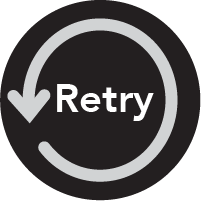
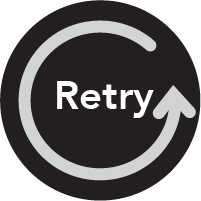
Apr 23
scoreboard, retry added

diff --git a/index.html b/index.html
@@ -55,7 +55,6 @@
       <!-- <div class="fifthVideo" onclick="playPauseMedia5()"><div class="overlap"><p>LIVESTOCK<br><br>Choosing this resource will grant you the<br> ability to farm livestock.</p></div><video onclick=""><source src="img/livestock.mp4" type="video/mp4" onclick=""></video></div>  -->
       <!-- <div class="sixthVideo" onclick="playPauseMedia6()"><div class="overlap"><p>TOILET<br><br>Choosing this resource will grant you<br> access to the plumbing system</p></div><video onclick=""><source src="img/toilet.mp4" type="video/mp4" onclick=""></video></div>  -->
     
-
   <!-- Toggle video icons (working) Kyle -->
     <div class="icons" id="icons">
       <div><img src="img/drink.png" alt="" class="drink" id="drink" onmouseover="this.src='img/drinkH.png'" onmouseout="this.src='img/drink.png'" onclick="playPauseMedia1()"></div>
@@ -66,10 +65,13 @@
       <div><img src="img/flush.png" alt="" class="flush" id="" onmouseover="this.src='img/flushH.png'" onmouseout="this.src='img/flush.png'" onclick="playPauseMedia6()"></div>
     </div>
     
-    <!-- </div class="retry" id="retry" onhover="" onclick="">    
-      <div><img src="img/retry.png" alt=""></div>
-    </div> -->
-
+  <!-- Displays score & Retry icon (work in progress) Kyle -->
+    <div class="playHUD" id="playHUD">
+      <h2 id="scoreBoard"></h2>
+      <div class="retry"><img src="img/retry.png" onclick="window.location.reload()" onmouseover="this.src='img/retryH.png'" onmouseout="this.src='img/retry.png'" alt=""></div>
+    </div>  
+  
+    
   <!-- Javascript that determines the max number of clicks based on score (working) Kyle -->
     <script>
 
@@ -83,6 +85,7 @@
         
         
         var count=0;
+        var totalCreditRemaining=0;
         
         //plays first video if the user has enough credits
         
@@ -94,6 +97,7 @@
               video1[0].play();
               // alert("video has been played");
               count++; 
+              drawScoreBoard();
             } else {
               // videos.pause;
               // alert("video won't play");
@@ -111,6 +115,7 @@
               video2[0].play();
               // alert("video has been played");
               count++; 
+              drawScoreBoard();
             } else {
               // videos.pause;
               // alert("video won't play");
@@ -129,6 +134,7 @@
             video3[0].play();
             // alert("video has been played");
             count++; 
+            drawScoreBoard();
           } else {
             // videos.pause;
             // alert("video won't play");
@@ -148,6 +154,7 @@
             video4[0].play();
             // alert("video has been played");
             count++; 
+            drawScoreBoard();
           } else {
             // videos.pause;
             // alert("video won't play");
@@ -165,7 +172,8 @@
             // alert(video1[0]);
             video5[0].play();
             // alert("video has been played");
-            count++; 
+            count++;
+            drawScoreBoard(); 
           } else {
             // videos.pause;
             // alert("video won't play");
@@ -184,6 +192,7 @@
             video6[0].play();
             // alert("video has been played");
             count++; 
+            drawScoreBoard();
           } else {
             // videos.pause;
             // alert("video won't play");
@@ -191,6 +200,15 @@
         
         
         }
+        
+        function drawScoreBoard(){
+          totalCreditRemaining = score - count;
+          // scoreBoard.innerHTML = "***Total Score: "+ score + " Water units availible: " + totalCreditRemaining + "***";
+          scoreBoard.innerHTML = " Water credits left: " + totalCreditRemaining + "   ";
+   
+        }
+        
+          
         
     </script>
     

diff --git a/css/main.css b/css/main.css
@@ -3,13 +3,11 @@ body, html {
   height: 100%;
   font-family: 'Roboto', sans-serif;
   font-size: 1em;
-  text-transform: uppercase;
+  /* text-transform: uppercase; */
+  overflow: hidden;
 }
 
 .wrapper {
-  width: auto;
-  margin: 1 auto;
-  height: 100vh;
 }
 
 .startButton {
@@ -24,7 +22,7 @@ body, html {
   border-radius: 5em;
   border-width: 0.25em;
   border-color: white;
-  text-transform: uppercase;
+  /* text-transform: uppercase; */
 }
 
 .startButton:hover {
@@ -45,7 +43,7 @@ body, html {
   border-radius: 5em;
   border-width: 0.25em;
   border-color: white;
-  text-transform: uppercase; 
+  /* text-transform: uppercase;  */
 }
 
 .nextButton:hover {
@@ -181,11 +179,67 @@ padding: 0.75em;
 }
 .icons img {
   max-width: 50%;
+  cursor: pointer;
+
 }
-.retry img{
-  display: inline;
-  position: fixed;
+
+.playHUD {
+  font-family: helvetica;
+  /* font-weight: 100; */
+  grid-column-start: 2;
+  grid-row: 1;
+  margin: -4em 24em;
+  font-size: 20px;
+  /* text-transform: uppercase; */
+  /* display: grid; */
+  grid-template-columns: 1fr 1fr 1fr;
+  /* grid-template-rows: 1fr 1fr;  */
+  color: #3FA9F5;
   z-index: 1;
+}
+
+.playHUD h2 {
+  display: block;
+  color: white;
+  font-size: 1em;
+  font-weight: 700;
+  text-align: center;
+  width: 12em;
+  margin: 2em auto;
+  padding: 0.5em 0em 0.5em 0em;
+  background-color: #3FA9F5;
+  border-radius: 5em;
+  border-width: 0.25em;
+  border-color: white;
+  /* grid-template-columns: 1fr 1fr 1fr; */
+  grid-column-start: 2;
+  grid-row: 1;
+  z-index: 1;
+  
+}
+
+.playHUD img {
+  cursor: pointer;
+}
+
+.retry {
+  /* width: 5em; */
+  /* top: 36vh; */
+  /* display: grid; */
+  /* grid-template-columns: 1fr 1fr 1fr; */
+  /* position: absolute; */
+  z-index: 2;
+
+}
+
+.retry img{
+  max-width: 3.0em;
+  display: inline;
+  position: absolute;
+  z-index: 1;
+  cursor: pointer;
+  top: 2vh;
+  left: 62vw
 }
 @media screen and (min-width: 320px) {
   .icons {
@@ -259,8 +313,8 @@ padding: 0.75em;
 
 
 .icons img {
-  width: 10em;
-  margin: 3em;
+  width: 6em;
+  margin: 19em 2em;
   position: absolute;
 }
 
@@ -278,29 +332,6 @@ padding: 0.75em;
 } */
 
 
-.icons .wash {
-  /* grid-column-start: 1; */
-  /* grid-row: 1; */
-  /* background-image: url(../img/drink.png); */
-  /* background-size: contain; */
-  /* background-repeat: no-repeat; */
-  /* background-position: center; */
-  /* grid-column-start: 1; */
-  /* grid-row: 1; */
-  /* left: 1em; */
-  /* z-index: 1; */
-}
-
-/* .sequence {
-  display: grid;
-  grid-template-columns: 33.3333% 33.3333% 33.3333%;
-  position: fixed;
-  width: 100%;
-  height: 100%;
-  top: 0;
-  bottom: 0;
-} */
-
 .sequence > div {
   position: relative;
   display: grid;
@@ -311,23 +342,6 @@ padding: 0.75em;
 
 .sequence > div:hover .overlap {
   opacity: 100;
-}
-
-.firstVideo {
-  background-image: url(../img/drink.png);
-  background-size: contain;
-  background-repeat: no-repeat;
-  background-position: center;
-  grid-column-start: 1;
-  grid-row: 1;
-  left: 1em;
-  /* position: absolute; */
- /* border-style: solid;
-  border-width: 1em 0 1em 2em;*/
-  /*border-color: transparent transparent transparent #000;*/
-  /* opacity: 1; */
-  /* cursor: pointer; */
-  z-index: 1;
 }
 
 .overlap {

diff --git a/js/main.js b/js/main.js
@@ -3,7 +3,7 @@
 
 function startButton(){ 
   document.getElementById("startButton").style.display = 'none';
-  document.getElementById("wsLogoS").style.display = 'inline-block';
+  document.getElementById("wsLogoS").style.display = 'inline-grid';
   document.getElementById("wsLogoL").style.display = 'none';
   document.getElementById("nextButton").style.display = 'block';
   document.getElementById("scenarioTitle").style.display = 'block';
@@ -91,7 +91,7 @@ window.onload = function () {
 
   document.getElementById("sequence").style.display = 'none';
   document.getElementById("icons").style.display = 'none';
-  // document.getElementById("retry").style.display = 'none';
+  document.getElementById("playHUD").style.display = 'none';
 
   var questionArea = document.getElementsByClassName('questions')[0],
         answerArea = document.getElementsByClassName('answers')[0],
@@ -196,8 +196,9 @@ window.onload = function () {
           // wrapperArea.innerHTML = '';
           document.getElementById("sequence").style.display = 'grid';
           document.getElementById("icons").style.display = 'grid';
-
+          document.getElementById("playHUD").style.display = 'grid';
           // document.getElementById("wrapper").style.display = 'none';
+          scoreBoard.innerHTML = "Water credits won: " + score;
         }
                                 
       };
